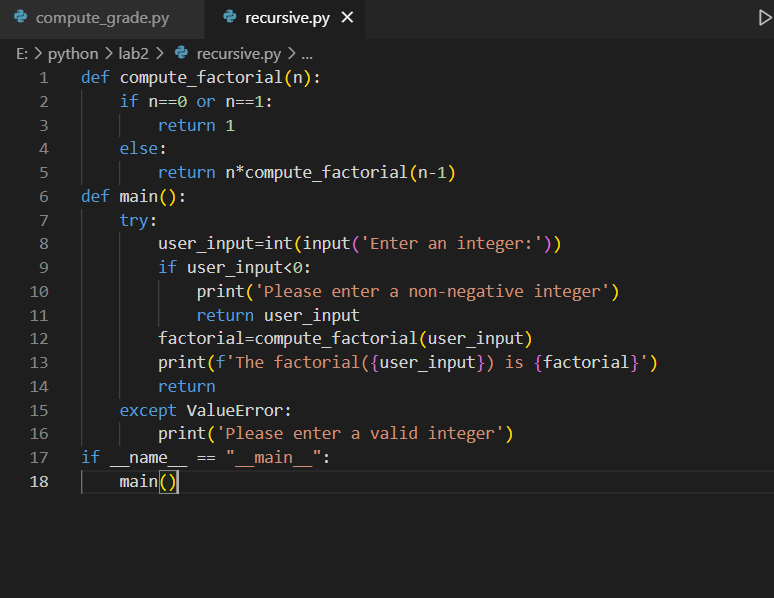
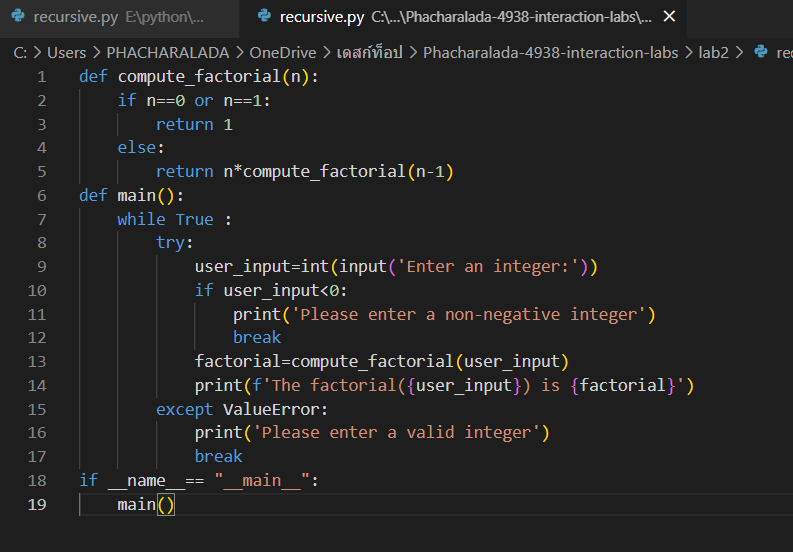
add

diff --git a/lab2/recursive.py b/lab2/recursive.py
@@ -4,15 +4,16 @@ def compute_factorial(n):
     else:
         return n*compute_factorial(n-1)
 def main():
-    try:
-        user_input=int(input('Enter an integer:'))
-        if user_input<0:
-            print('Please enter a non-negative integer')
-            return user_input
-        factorial=compute_factorial(user_input)
-        print(f'The factorial({user_input}) is {factorial}')
-        return
-    except ValueError:
-        print('Please enter a valid integer')
-if __name__ == "__main__":
+    while True :
+        try:
+            user_input=int(input('Enter an integer:'))
+            if user_input<0:
+                print('Please enter a non-negative integer')
+                break
+            factorial=compute_factorial(user_input)
+            print(f'The factorial({user_input}) is {factorial}')
+        except ValueError:
+            print('Please enter a valid integer')
+            break
+if __name__== "__main__":
     main()
